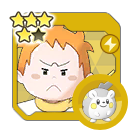
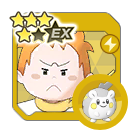
Add v2.45.0

diff --git a/js/syncpairs.js b/js/syncpairs.js
@@ -3293,7 +3293,7 @@ export const SYNCPAIRS = [
 		"pokemonType": "Ghost",
 		"pokemonWeak": "Fairy",
 		"syncPairRole": "Tech",
-		"syncPairRoleEX": "",
+		"syncPairRoleEX": "Support",
 		"syncPairRarity": "5",
 		"releaseDate": "2022-07-16",
 		"syncPairAcquisition": "Poké Fair Scout",
@@ -3313,7 +3313,9 @@ export const SYNCPAIRS = [
 			"Multiple Units",
 			"isWoman",
 			"Mythical",
-			"Unique Costume"
+			"Unique Costume",
+			"Grid5",
+			"GridExpansion"
 		]
 	},
 	{
@@ -3585,7 +3587,8 @@ export const SYNCPAIRS = [
 		"syncPairRegion": "Alola",
 		"images": [
 			"Sync Pairs/0G_ALOLA/0G_ALOLA_0B-05_Sophocles.png",
-			"Sync Pairs/5Star/0G_ALOLA_0B-05_Sophocles_5Star.png"
+			"Sync Pairs/5Star/0G_ALOLA_0B-05_Sophocles_5Star.png",
+			"Sync Pairs/0G_ALOLA/0G_ALOLA_0B-05_Sophocles_EX.png"
 		],
 		"themes": [
 			"Electric",
@@ -4169,8 +4172,82 @@ export const SYNCPAIRS = [
 		],
 		"tags": [
 			"isMan",
+			"Multiple Units",
 			"Multiple Pokemon",
 			"First Unit"
+		]
+	},
+	{
+		"dexNumber": "064",
+		"trainerName": "Cheren",
+		"trainerAlt": "Champion",
+		"pokemonNumber": "0641",
+		"pokemonName": "Tornadus",
+		"pokemonGender": "♂",
+		"pokemonForm": ["Other Form"],
+		"pokemonType": "Flying",
+		"pokemonWeak": "Rock",
+		"syncPairRole": "Tech",
+		"syncPairRoleEX": "Strike (Special)",
+		"syncPairRarity": "5",
+		"releaseDate": "2024-05-31",
+		"syncPairAcquisition": "Master Fair Scout",
+		"syncPairRegion": "Unova",
+		"images": [
+			"Sync Pairs/0E_UNOVA/Cheren_Tornadus.png",
+			"Sync Pairs/0E_UNOVA/Cheren_Tornadus_EX.png"
+		],
+		"themes": [
+			"Flying",
+			"Unova",
+			"Champion",
+			"Cape",
+			"Unova Adventurer"
+		],
+		"tags": [
+			"Legendary",
+			"Buddy Move",
+			"Limited",
+			"Unique Costume",
+			"Multiple Units",
+			"Multiple Pokemon",
+			"isMan",
+			"Rebuff",
+			"Neo Champion",
+			"Master Passive Spirit"
+		]
+	},
+	{
+		"dexNumber": "064",
+		"trainerName": "Cheren",
+		"trainerAlt": "Lodge",
+		"pokemonNumber": "0509",
+		"pokemonName": "Purrloin",
+		"pokemonGender": "♂",
+		"pokemonForm": [],
+		"pokemonType": "Dark",
+		"pokemonWeak": "Fighting",
+		"syncPairRole": "Tech",
+		"syncPairRoleEX": "",
+		"syncPairRarity": "4",
+		"releaseDate": "2024-05-31",
+		"syncPairAcquisition": "Trainer Lodge Exchange",
+		"syncPairRegion": "Unova",
+		"images": [
+			"Sync Pairs/0E_UNOVA/Cheren_Purrlion_4Star.png",
+			"Sync Pairs/5Star/Cheren_Purrlion_5Star.png",
+			"Sync Pairs/0E_UNOVA/Cheren_Purrlion_EX.png"
+		],
+		"themes": [
+			"Dark",
+			"Unova",
+			"Gym Leader",
+			"Rival",
+			"Unova Adventurer"
+		],
+		"tags": [
+			"Multiple Units",
+			"isMan"
 		]
 	},
 	{
@@ -5593,7 +5670,7 @@ export const SYNCPAIRS = [
 		"pokemonType": "Flying",
 		"pokemonWeak": "Ghost",
 		"syncPairRole": "Strike (Special)",
-		"syncPairRoleEX": "",
+		"syncPairRoleEX": "Field",
 		"syncPairRarity": "5",
 		"releaseDate": "2022-05-30",
 		"syncPairAcquisition": "Master Fair Scout",
@@ -6609,7 +6686,7 @@ export const SYNCPAIRS = [
 		"pokemonType": "Normal",
 		"pokemonWeak": "Fighting",
 		"syncPairRole": "Support",
-		"syncPairRoleEX": "",
+		"syncPairRoleEX": "Sprint",
 		"syncPairRarity": "5",
 		"releaseDate": "2021-09-16",
 		"syncPairAcquisition": "Poké Fair Scout",
@@ -6630,7 +6707,9 @@ export const SYNCPAIRS = [
 			"Multiple Units",
 			"isMan",
 			"Villain Arc",
-			"Multiple Pokemon"
+			"Multiple Pokemon",
+			"Grid5",
+			"GridExpansion"
 		]
 	},
 	{
@@ -9071,10 +9150,51 @@ export const SYNCPAIRS = [
 			"Unova Adventurer"
 		],
 		"tags": [
+			"Multiple Units",
 			"isWoman",
 			"Terrain",
 			"Song Key",
 			"First Unit"
+		]
+	},
+	{
+		"dexNumber": "110",
+		"trainerName": "Bianca",
+		"trainerAlt": "Champion",
+		"pokemonNumber": "0640",
+		"pokemonName": "Virizion",
+		"pokemonGender": "",
+		"pokemonForm": [],
+		"pokemonType": "Fighting",
+		"pokemonWeak": "Flying",
+		"syncPairRole": "Strike (Physical)",
+		"syncPairRoleEX": "Support",
+		"syncPairRarity": "5",
+		"releaseDate": "2024-06-02",
+		"syncPairAcquisition": "Master Fair Scout",
+		"syncPairRegion": "Unova",
+		"images": [
+			"Sync Pairs/0E_UNOVA/Bianca_Virizion.png",
+			"Sync Pairs/0E_UNOVA/Bianca_Virizion_EX.png"
+		],
+		"themes": [
+			"Fighting",
+			"Unova",
+			"Champion",
+			"Glasses",
+			"Unova Adventurer"
+		],
+		"tags": [
+			"Legendary",
+			"Buddy Move",
+			"Limited",
+			"Region Circle",
+			"Unique Costume",
+			"Multiple Units",
+			"isWoman",
+			"Rebuff",
+			"Neo Champion",
+			"Master Passive Flag Bearer"
 		]
 	},
 	{
@@ -11062,7 +11182,7 @@ export const SYNCPAIRS = [
 		"pokemonType": "Psychic",
 		"pokemonWeak": "Steel",
 		"syncPairRole": "Strike (Physical)",
-		"syncPairRoleEX": "",
+		"syncPairRoleEX": "Sprint",
 		"syncPairRarity": "5",
 		"releaseDate": "2023-05-14",
 		"syncPairAcquisition": "Poké Fair Scout",
@@ -12713,7 +12833,7 @@ export const SYNCPAIRS = [
 		"pokemonType": "Normal",
 		"pokemonWeak": "Fighting",
 		"syncPairRole": "Support",
-		"syncPairRoleEX": "",
+		"syncPairRoleEX": "Field",
 		"syncPairRarity": "5",
 		"releaseDate": "2023-02-15",
 		"syncPairAcquisition": "Poké Fair Scout",
@@ -14399,6 +14519,82 @@ export const SYNCPAIRS = [
 			"Song Key",
 			"First Unit"
 		]
+	},
+	{
+		"dexNumber": "205",
+		"trainerName": "Larry",
+		"trainerAlt": "",
+		"pokemonNumber": "0982",
+		"pokemonName": "Dudunsparce",
+		"pokemonGender": "♂",
+		"pokemonForm": ["Other Form"],
+		"pokemonType": "Normal",
+		"pokemonWeak": "Fighting",
+		"syncPairRole": "Sprint",
+		"syncPairRoleEX": "Tech",
+		"syncPairRarity": "5",
+		"releaseDate": "2024-06-14",
+		"syncPairAcquisition": "Poké Fair Scout",
+		"syncPairRegion": "Paldea",
+		"images": [
+			"Sync Pairs/0J_PALDEA/Larry_Dudunsparce.png",
+			"Sync Pairs/0J_PALDEA/Larry_Dudunsparce_EX.png"
+		],
+		"themes": [
+			"Normal",
+			"Paldea",
+			"Gym Leader",
+			"Elite Four",
+			"Free Spirit"
+		],
+		"tags": [
+			"Grid5",
+			"Buddy Move",
+			"Limited",
+			"isMan",
+			"Rebuff",
+			"Song Key",
+			"First Unit"
+		]
+	},
+	{
+		"dexNumber": "206",
+		"trainerName": "Kabu",
+		"trainerAlt": "",
+		"pokemonNumber": "0851",
+		"pokemonName": "Centiskorch",
+		"pokemonGender": "♂",
+		"pokemonForm": [
+			"Dynamax",
+			"Gigantamax"
+		],
+		"pokemonType": "Fire",
+		"pokemonWeak": "Rock",
+		"syncPairRole": "Support",
+		"syncPairRoleEX": "Strike (Physical)",
+		"syncPairRarity": "5",
+		"releaseDate": "2024-06-16",
+		"syncPairAcquisition": "Poké Fair Scout",
+		"syncPairRegion": "Galar",
+		"images": [
+			"Sync Pairs/0H_GALAR/Kabu_Centiskorch.png",
+			"Sync Pairs/0H_GALAR/Kabu_Centiskorch_EX.png"
+		],
+		"themes": [
+			"Fire",
+			"Galar",
+			"Gym Leader",
+			"Passionate Spirit",
+			"Veteran Trainer"
+		],
+		"tags": [
+			"Grid5",
+			"Buddy Move",
+			"Limited",
+			"isMan",
+			"Rebuff",
+			"First Unit"
+		]
 	}
 ]
 
@@ -14465,4 +14661,4 @@ const P = {
 }
 
 
-export const VERSION = "v2.44.0";
+export const VERSION = "v2.45.0";

diff --git a/js/news.js b/js/news.js
@@ -1,5 +1,9 @@
 export const NEWS = [
 	{
+		"date": "2024-05-29",
+		"info" : "Add v2.45.0"
+	},
+	{
 		"date": "2024-05-22",
 		"info" : "Add role combinations filters"
 	},
